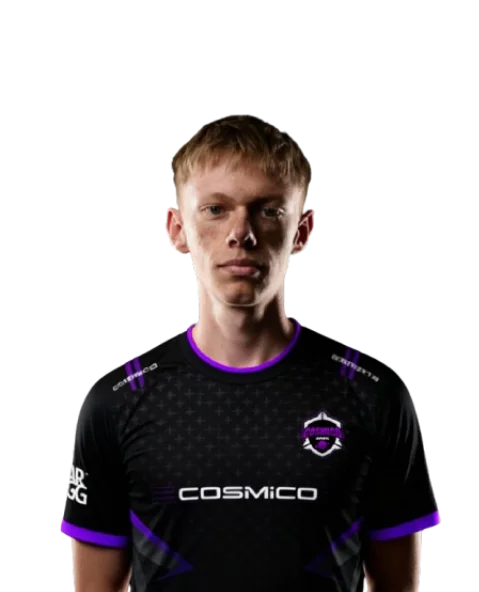
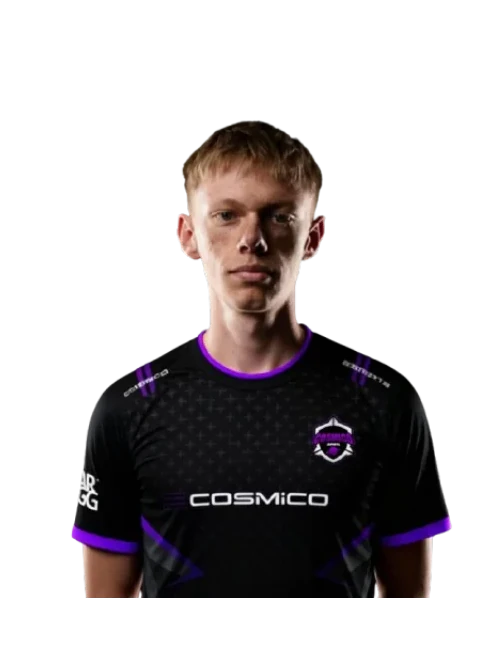
Image changes and resize for images in Player folder, re-alligned KYO and SKZ to the left instead of being near centered

Changed region(s): [[0.1169, 0.152, 0.9353, 1.0], [0.3507, 0.7601, 0.38, 0.7905]]

diff --git a/CosSKZ.html b/CosSKZ.html
@@ -667,7 +667,7 @@ p { font-size: 24px; }
     font-size: 35px;
     color: #3D1056;
     margin-top: 120px;
-    margin-left: 200px;
+    margin-left: 20px;
     margin-bottom: 20px;
 }
 
@@ -677,7 +677,7 @@ p { font-size: 24px; }
     font-size: 35px;
     color: #3D1056;
     margin-top: 35px;
-    margin-left: 200px;
+    margin-left: 20px;
     margin-bottom: 20px;
 }
 
@@ -686,7 +686,7 @@ p { font-size: 24px; }
     gap: 30px;
     margin-top: 20px;
     justify-content: flex-start;
-    margin-left: 200px;
+    margin-left: 20px;
 }
 
 .player-card {
@@ -919,7 +919,7 @@ p { font-size: 24px; }
 <div class="player-cards">
 
   <div class="player-card">
-    <img src="/players/Default.webp" alt="Player" class="player-img">
+    <img src="/Players/Default.webp" alt="Player" class="player-img">
     <div class="player-info">
       <h4 class="player-ign">Sassafras</h4>
       <img src="/Players/Flags/USA.webp" alt="South Africa" class="player-flag">
@@ -929,7 +929,7 @@ p { font-size: 24px; }
   </div>
 
   <div class="player-card">
-    <img src="/players/Default.webp" alt="Player" class="player-img">
+    <img src="/Players/Default.webp" alt="Player" class="player-img">
     <div class="player-info">
       <h4 class="player-ign">Kaz.umi</h4>
       <img src="/Players/Flags/USA.webp" alt="South Africa" class="player-flag">
@@ -939,7 +939,7 @@ p { font-size: 24px; }
   </div>
   
   <div class="player-card">
-    <img src="/players/MellyJelly.webp" alt="Player" class="player-img">
+    <img src="/Players/MellyJelly.webp" alt="Player" class="player-img">
     <div class="player-info">
       <h4 class="player-ign">Melly Jelly</h4>
       <img src="/Players/Flags/Panama.webp" alt="South Africa" class="player-flag">
@@ -954,10 +954,10 @@ p { font-size: 24px; }
 <h3 class="sub-subtitle">Staff</h3>
 <div class="player-cards">
   <div class="player-card">
-    <img src="/players/Default.webp" alt="Staff" class="player-img">
+    <img src="/Players/Default.webp" alt="Staff" class="player-img">
     <div class="player-info">
-      <h4 class="player-ign">Zacky</h4>
-      <img src="/Players/Flags/Canada.webp" alt="South Africa" class="player-flag">
+      <h4 class="player-ign">TBA</h4>
+      <img src="/Players/Flags/Canada.webp" alt="Canada" class="player-flag">
     </div>
     <div class="player-socials">
     </div>

diff --git a/Cosmain.html b/Cosmain.html
@@ -900,7 +900,7 @@ p { font-size: 24px; }
 <h3 class="roster-subtitle">Main Roster</h3>
 <div class="player-cards">
   <div class="player-card">
-    <img src="/players/galaxy.png" alt="Player" class="player-img">
+    <img src="/Players/Default.webp" alt="Player" class="player-img">
     <div class="player-info">
       <h4 class="player-ign">JEFF</h4>
       <p class="player-realname">Jayden Dunford</p>
@@ -913,7 +913,7 @@ p { font-size: 24px; }
   </div>
 
   <div class="player-card">
-    <img src="/players/Default.webp" alt="Player" class="player-img">
+    <img src="/Players/Default.webp" alt="Player" class="player-img">
     <div class="player-info">
       <h4 class="player-ign">RAVI</h4>
       <p class="player-realname">Kieolan</p>
@@ -925,7 +925,7 @@ p { font-size: 24px; }
     </div>
   </div>
   <div class="player-card">
-    <img src="/players/stake.webp" alt="Player" class="player-img">
+    <img src="/Players/stake.webp" alt="Player" class="player-img">
     <div class="player-info">
       <h4 class="player-ign">STAKE</h4>
       <p class="player-realname">Marc Bosch</p>
@@ -941,7 +941,7 @@ p { font-size: 24px; }
 <h3 class="sub-subtitle">Substitute</h3>
 <div class = "player-cards">
     <div class="player-card">
-    <img src="/players/galaxy.webp" alt="Player" class="player-img">
+    <img src="/Players/galaxy.webp" alt="Player" class="player-img">
     <div class="player-info">
       <h4 class="player-ign">GALAXY</h4>
       <p class="player-realname">Adrian Rautenbach</p>
@@ -957,7 +957,7 @@ p { font-size: 24px; }
 <h3 class="sub-subtitle">Coach</h3>
 <div class="player-cards">
   <div class="player-card">
-    <img src="/players/Default.webp" alt="Coach" class="player-img">
+    <img src="/Players/Default.webp" alt="Coach" class="player-img">
     <div class="player-info">
       <h4 class="player-ign">TBA</h4>
       <p class="player-realname">TBA</p>
@@ -973,7 +973,7 @@ p { font-size: 24px; }
 <h3 class="sub-subtitle">Staff</h3>
 <div class="player-cards">
   <div class="player-card">
-    <img src="/players/ace.webp" alt="Staff" class="player-img">
+    <img src="/Players/AceResize.webp" alt="Staff" class="player-img">
     <div class="player-info">
       <h4 class="player-ign">UnguardedAce</h4>
       <p class="player-realname">Clayton Lopes</p>

diff --git a/CosKYO.html b/CosKYO.html
@@ -664,7 +664,7 @@ p { font-size: 24px; }
     font-size: 35px;
     color: #3D1056;
     margin-top: 120px;
-    margin-left: 200px;
+    margin-left: 20px;
     margin-bottom: 20px;
 }
 
@@ -674,7 +674,7 @@ p { font-size: 24px; }
     font-size: 35px;
     color: #3D1056;
     margin-top: 35px;
-    margin-left: 200px;
+    margin-left: 20px;
     margin-bottom: 20px;
 }
 
@@ -683,7 +683,7 @@ p { font-size: 24px; }
     gap: 30px;
     margin-top: 20px;
     justify-content: flex-start;
-    margin-left: 200px;
+    margin-left: 20px;
 }
 
 .player-card {
